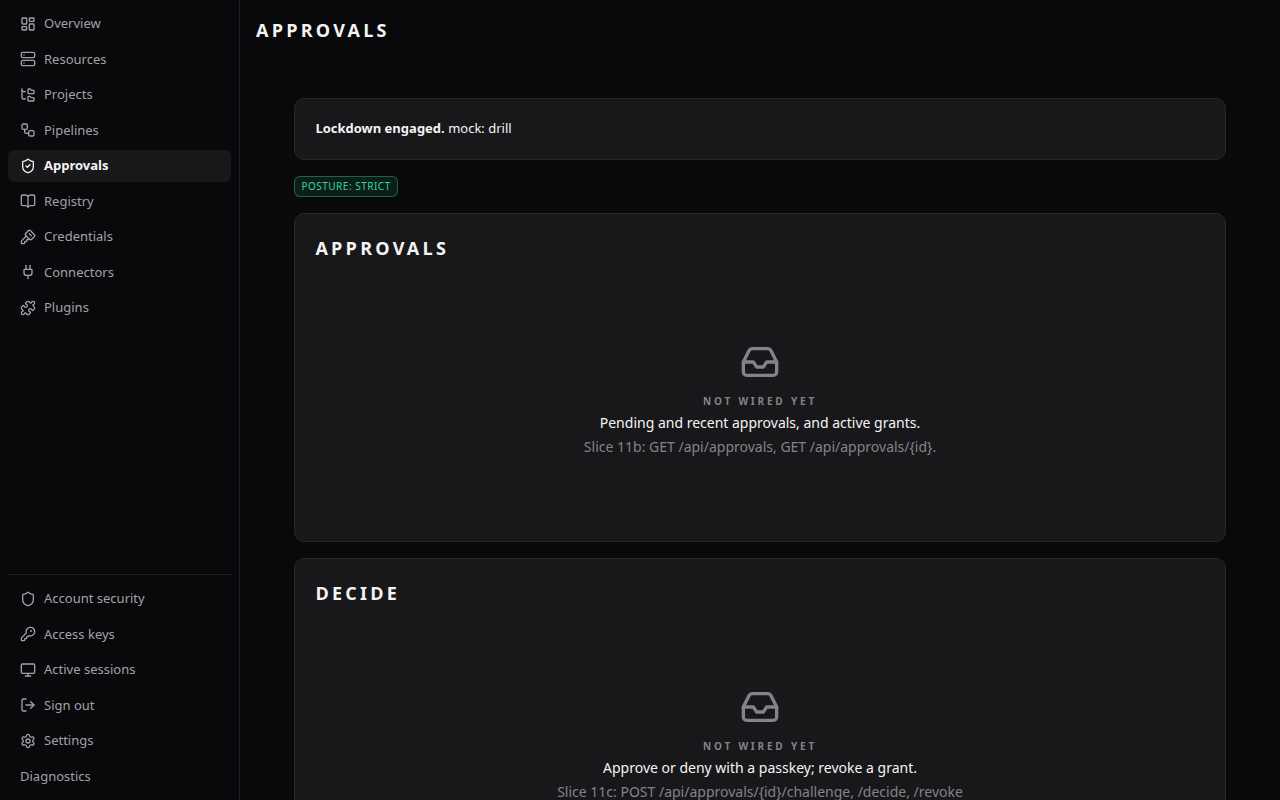
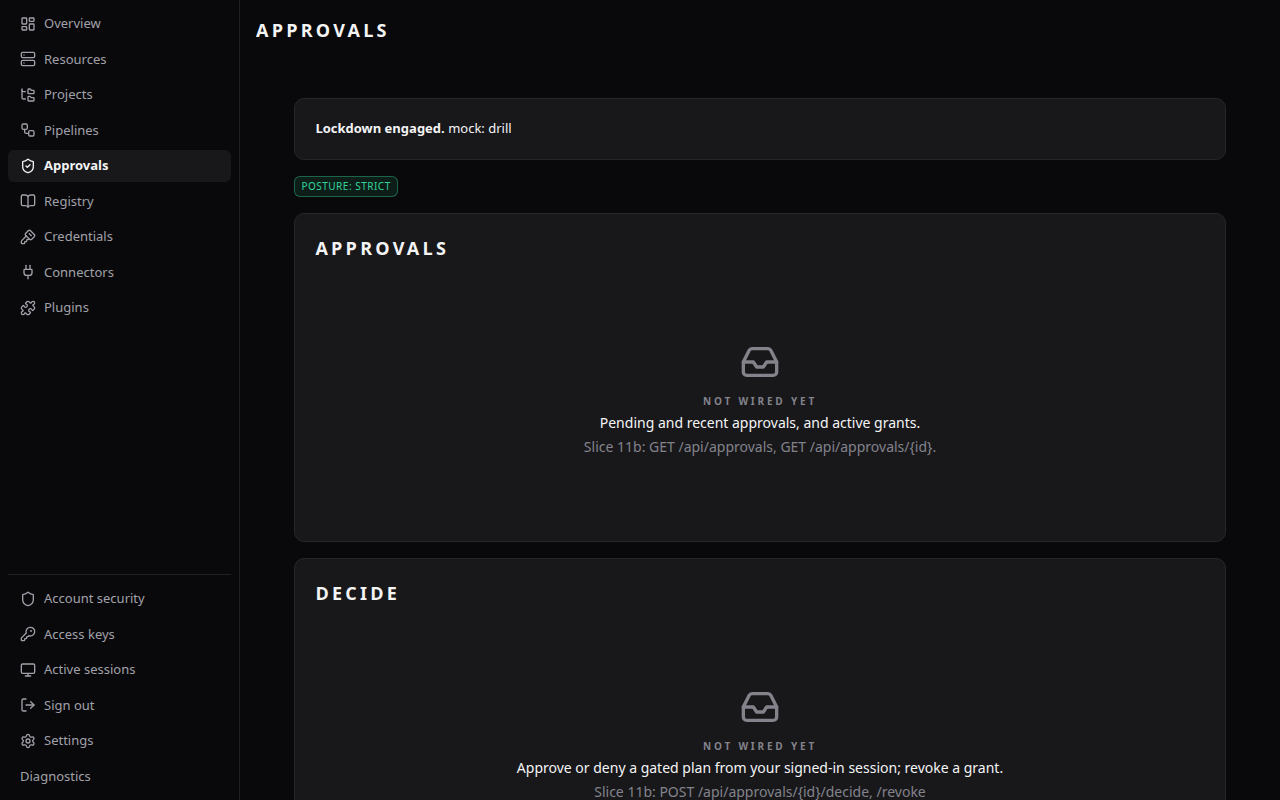
feat(web): approvals from the owner's console session, no passkeys (CW-20261114-0109)
Decision 0.1 (Chrispian): passkey approvals are dropped for the port. The
contract drops the passkey ceremony and enrolment routes, the RP ID and
allowed-origins handling, and the passkeys badge; the owner approves a
gated plan from the signed-in identity session. The approvals page and
the typed client follow, and the two approvals screenshots are retaken.

Changed region(s): [[0.4062, 0.9375, 0.7812, 1.0]]

diff --git a/web/src/api/cerberus.ts b/web/src/api/cerberus.ts
@@ -15,13 +15,10 @@ import type {
   ConsoleStatus,
   CredentialSaveResult,
   CredentialsResponse,
-  EnrollBegin,
   LogLines,
   ManagedPluginState,
   OpResult,
   OverviewInfo,
-  PasskeyCeremony,
-  PasskeyStatus,
   PipelineInfo,
   PipelineRunResult,
   PluginHealth,
@@ -36,8 +33,7 @@ import type {
 } from "./types"
 
 // Typed stubs for every route in docs/substrate-port/console-api-contract.md. The comment on each
-// group is the scope the route requires. Pages wire these in slice 11b; the passkey ceremonies
-// (approve, enroll, remove) in slice 11c.
+// group is the scope the route requires. Pages wire these in slice 11b.
 
 const id = encodeURIComponent
 
@@ -81,7 +77,6 @@ export const cerberus = {
   pluginHealth: (pid: string) => request<PluginHealth>(`plugins/connectors/${id(pid)}/health`),
   listApprovals: () => request<ApprovalListResponse>("approvals"),
   getApproval: (aid: string) => request<ApprovalInfo>(`approvals/${id(aid)}`),
-  passkeys: () => request<PasskeyStatus>("approvals/keys"),
 
   // cerberus.operate (resource remove: cerberus.admin)
   resourceAction: (rid: string, action: ResourceAction, acknowledged: boolean) =>
@@ -120,22 +115,10 @@ export const cerberus = {
   restoreConfigBackup: (backupPath: string) =>
     gated<ConfigRestoreResponse>("config/backups/restore", { backup_path: backupPath }),
 
-  // cerberus.approve (a console session only; never an API key or a local-trust caller)
-  approvalChallenge: (aid: string) =>
-    request<PasskeyCeremony>(`approvals/${id(aid)}/challenge`, "POST", {}),
-  decideApproval: (
-    aid: string,
-    body: { approve: boolean; typed: string; reason: string; assertion?: unknown },
-  ) => request<ApprovalInfo>(`approvals/${id(aid)}/decide`, "POST", body),
+  // cerberus.approve: the owner's console session only (decision 0.1: no passkey). Never an API
+  // key or a local-trust caller.
+  decideApproval: (aid: string, body: { approve: boolean; typed: string; reason: string }) =>
+    request<ApprovalInfo>(`approvals/${id(aid)}/decide`, "POST", body),
   revokeApproval: (aid: string, reason: string) =>
     request<ApprovalInfo>(`approvals/${id(aid)}/revoke`, "POST", { reason }),
-  // The enroll token comes from the host-side `cerberus approvals enroll` (host authentication).
-  enrollBegin: (enrollToken: string, label: string) =>
-    request<EnrollBegin>("approvals/keys/register/begin", "POST", { token: enrollToken, label }),
-  enrollFinish: (body: { ceremony: string; credential: unknown; authorize?: unknown }) =>
-    request<{ fingerprint: string }>("approvals/keys/register/finish", "POST", body),
-  removeKeyBegin: (fingerprint: string) =>
-    request<PasskeyCeremony>("approvals/keys/remove/begin", "POST", { fingerprint }),
-  removeKeyFinish: (body: { ceremony: string; credential: unknown }) =>
-    request<PasskeyStatus>("approvals/keys/remove/finish", "POST", body),
 }

diff --git a/web/src/pages/approvals.tsx b/web/src/pages/approvals.tsx
@@ -4,7 +4,8 @@ import { Page } from "./common"
 /**
  * The approvals page shell. An approval link (`/approvals?id=<approval>`) lands here after sign-in;
  * the old one-approval scoped session is gone (docs/substrate-port/console-api-contract.md).
- * The list arrives in slice 11b; deciding with a passkey and enrolling passkeys in slice 11c.
+ * The list and the decide and revoke actions arrive in slice 11b. Approving is the owner's signed-in
+ * console session (decision 0.1: no passkey).
  */
 export function ApprovalsPage() {
   const focus = new URLSearchParams(window.location.search).get("id") ?? ""
@@ -33,19 +34,8 @@ export function ApprovalsPage() {
         <EmptyState
           variant="empty"
           eyebrow="Not wired yet"
-          title="Approve or deny with a passkey; revoke a grant."
-          description="Slice 11c: POST /api/approvals/{id}/challenge, /decide, /revoke (cerberus.approve)."
-        />
-      </section>
-      <section className="panel stack" aria-labelledby="approvals-passkeys">
-        <h2 id="approvals-passkeys" className="text-lg font-semibold">
-          Passkeys
-        </h2>
-        <EmptyState
-          variant="empty"
-          eyebrow="Not wired yet"
-          title="Enrolled passkeys, enrolment and removal."
-          description="Slice 11c: GET /api/approvals/keys, POST /api/approvals/keys/{register|remove}/{begin|finish}."
+          title="Approve or deny a gated plan from your signed-in session; revoke a grant."
+          description="Slice 11b: POST /api/approvals/{id}/decide, /revoke (cerberus.approve, owner session only)."
         />
       </section>
     </Page>

diff --git a/web/src/api/types.ts b/web/src/api/types.ts
@@ -6,7 +6,6 @@
 // replaces the badge fields of the old GET /api/session, which also carried the action token.
 export interface ConsoleStatus {
   posture?: PostureInfo
-  passkeys?: PasskeysAlert | null
   break_glass?: BreakGlassAlert | null
   enforcement?: EnforcementAlert | null
   brakes?: BrakeState | null
@@ -48,41 +47,6 @@ export interface BreakGlassAlert {
   recent: number
   open: number
   summary: string
-}
-
-export interface PasskeysAlert {
-  summary: string
-  alert: boolean
-  state: string
-  keys: number
-}
-
-export interface PasskeyInfo {
-  fingerprint: string
-  label?: string
-  enrolled_at: string
-}
-
-export interface PasskeyStatus {
-  enrollment?: { method: string; available: boolean; next_step: string }
-  state: "not_set_up" | "ok" | "cooldown" | string
-  keys: PasskeyInfo[]
-  cooldown_until?: string
-  last_enrolled_at?: string
-  registry_hash: string
-}
-
-// PasskeyCeremony is one ceremony's id and the options the browser needs,
-// as base64url of their JSON (see webauthn.ts for why they travel opaque).
-export interface PasskeyCeremony {
-  ceremony: string
-  options: string
-}
-
-export interface EnrollBegin {
-  ceremony: string
-  creation: string
-  authorize?: string
 }
 
 // PostureInfo is the applied posture (section 13): shown in the header so a

diff --git a/web/src/pages/common.tsx b/web/src/pages/common.tsx
@@ -52,7 +52,6 @@ export function ConsoleHeader() {
             {status.posture.summary}
           </Pill>
         ) : null}
-        {status.passkeys?.alert ? <Pill tone="warning">{status.passkeys.summary}</Pill> : null}
         {status.break_glass?.open ? <Pill tone="danger">{status.break_glass.summary}</Pill> : null}
         {status.enforcement && !status.enforcement.enforced ? (
           <Pill tone="warning">{status.enforcement.summary}</Pill>

diff --git a/docs/substrate-port/console-api-contract.md b/docs/substrate-port/console-api-contract.md
@@ -16,7 +16,7 @@ Inputs:
 | Authentication | Substrate `identity`: an `HttpOnly`, `SameSite=Strict` session cookie set by `POST /api/login`. API keys (`Authorization: Bearer key_…`) for machine callers |
 | Writes | Every non-GET carries `Content-Type: application/json` and `X-Requested-With: XMLHttpRequest`, and a cookie-authenticated write must have a same-origin `Origin` (`identity.Middleware`). **Removed:** `X-Cerberus-Web-Token`, `X-Cerberus-Session-Key`, the `#cerberus-key` fragment |
 | Errors | The flat body `{"code": "…", "message": "…", "details": {…}?}` on every non-2xx. `401 unauthorized` when signed out. `403` when the scope is missing. `403 user_required` on person-only routes called with a key |
-| Gated-write refusal | Same flat body. `code` is `approval_required`, `approval_pending` or `plan_stale`, and `details.approval` is `{id, expires_at?, approve_with?, channel}`. `channel: "tty_confirm"` means the console can confirm in place (plan then confirm); `"out_of_band"` means a passkey approval |
+| Gated-write refusal | Same flat body. `code` is `approval_required`, `approval_pending` or `plan_stale`, and `details.approval` is `{id, expires_at?, approve_with?, channel}`. `channel: "tty_confirm"` means the console can confirm in place (plan then confirm); `"out_of_band"` means an approval the owner decides on the approvals page from the signed-in console session (no passkey, decision 0.1) |
 | Success bodies | Unchanged from today: the shapes in `web/src/api/types.ts` (carried from the old client). In-band `error` fields that some reads use for partial results stay. A request failure is never reported in a 200 |
 | Path ids | URL-encoded single segments |
 
@@ -29,10 +29,10 @@ A write that policy may gate has four forms on one base path. The base path is t
 | `POST <path>` | the write's body (`acknowledged` where the action has one) | the result, or a refusal naming an approval |
 | `POST <path>/plan` | the same body | `ConnectorPlan` `{plan_hash, computed_by, plan}` |
 | `POST <path>/confirm` | the body plus `{approval_id, confirmed_plan_hash}` | the result, or `409 plan_stale` |
-| `POST <path>` (retry) | the body plus `{approval_id}` after an out-of-band approval | the result |
+| `POST <path>` (retry) | the body plus `{approval_id}` after the owner approved it | the result |
 
 All four forms need the write's own scope. Confirming in place needs nothing more. An out-of-band
-approval is decided by someone holding `cerberus.approve` (section 3.4).
+approval is decided by the owner holding `cerberus.approve` in a console session (section 3.4).
 
 ## 2. Scopes
 
@@ -43,7 +43,7 @@ From the plan (section 4.3):
 | `cerberus.read` | every GET below | people, API keys, MCP stdio (local trust) |
 | `cerberus.operate` | resource actions except remove, pipeline runs, brakes | people, API keys, MCP stdio |
 | `cerberus.admin` | connector operations, credentials, plugins, registry writes, config restore, resource remove | people, API keys, MCP stdio |
-| `cerberus.approve` | deciding approvals, revoking grants, passkey enrolment and removal | **a person's console session only**. The server refuses it on any API key, any token minted from a key, and every local-trust principal (route returns `403 user_required` for non-persons; the plan's scope test asserts it) |
+| `cerberus.approve` | approving or denying a gated plan, revoking a grant | **the owner's console identity session only** (plan revision 4, decision 0.1). The server refuses it on any API key, any token minted from a key, and every local-trust principal (route returns `403 user_required` for non-persons; the plan's scope test asserts it) |
 | `authenticated` | `GET /api/identity/profile`, the identity self-service routes | any signed-in caller |
 | `public` | `/healthz`, `GET /api/setup`, `POST /api/login` | anyone |
 
@@ -69,7 +69,7 @@ The owner holds `*`. The access-keys page offers only read, operate and admin.
 
 | Method | Path | Scope | Response | Notes |
 |---|---|---|---|---|
-| GET | `/api/console/status` | `cerberus.read` | `ConsoleStatus` `{posture?, passkeys?, break_glass?, enforcement?, brakes?}` | **New.** The header badges and brakes banner, which today come once from `GET /api/session`. Polled every 15 s. `/api/session` is removed |
+| GET | `/api/console/status` | `cerberus.read` | `ConsoleStatus` `{posture?, break_glass?, enforcement?, brakes?}` | **New.** The header badges and brakes banner, which today come once from `GET /api/session`. Polled every 15 s. `/api/session` is removed |
 
 ### 3.3 Pages
 
@@ -103,48 +103,35 @@ The owner holds `*`. The access-keys page offers only read, operate and admin.
 | settings | POST **W** gated | `/api/config/backups/restore` | admin | `{backup_path}` | `ConfigRestoreResponse` |
 | approvals | GET | `/api/approvals` | read | | `ApprovalListResponse` |
 | approvals | GET | `/api/approvals/{id}` | read | | `ApprovalInfo` (an approval link's target) |
-| approvals | GET | `/api/approvals/keys` | read | | `PasskeyStatus` |
 | every page (header) | POST **W** | `/api/brakes/lockdown` | operate | `{reason}` | `{state: BrakeState}`. Never gated: engaging the brake is always one click |
-| header, approvals | POST **W** | `/api/brakes/lockdown/lift` | operate | `{approval_id}` | `{state: BrakeState}`. Refused until an out-of-band approval exists, then retried with it |
+| header, approvals | POST **W** | `/api/brakes/lockdown/lift` | operate | `{approval_id}` | `{state: BrakeState}`. Refused until the owner approves it, then retried with the approval id |
 | header, approvals | POST **W** | `/api/brakes/freeze/{id}/lift` | operate | `{approval_id}` | `{state: BrakeState}`, same as lockdown lift |
 | header | POST **W** | `/api/brakes/suspensions/{id}/reset` | operate | `{typed: "reset <id>"}` | `{state: BrakeState}` |
 
-### 3.4 Approve (passkey ceremonies, slice 11c)
+### 3.4 Approve (owner session)
 
-All of these are `cerberus.approve`, person-only (`403 user_required` otherwise), and need an
-`Origin` the passkey service allows (section 4).
+Decision 0.1 (Chrispian, 2026-11-14): passkey approvals are dropped for the port. Approval stays human and bound
+to the plan: the owner approves a gated plan from a signed-in identity session in the console, with no ceremony.
+Both routes are `cerberus.approve`, person-only (`403 user_required` for a key, a token minted from one, or a
+local-trust principal).
 
 | Method | Path | Request | Response |
 |---|---|---|---|
-| POST **W** | `/api/approvals/{id}/challenge` | `{}` | `PasskeyCeremony` `{ceremony, options}` |
-| POST **W** | `/api/approvals/{id}/decide` | `{approve, typed, reason, assertion?: {ceremony, credential}}`. An out-of-band approve must carry the assertion; approve needs the typed target | `ApprovalInfo` |
+| POST **W** | `/api/approvals/{id}/decide` | `{approve, typed, reason}`. Approve needs the typed target, which must match the plan's | `ApprovalInfo` |
 | POST **W** | `/api/approvals/{id}/revoke` | `{reason}` | `ApprovalInfo` |
-| POST **W** | `/api/approvals/keys/register/begin` | `{token, label}`. `token` is the enrolment token from the host-side `cerberus approvals enroll` (polkit or Touch ID) | `EnrollBegin` `{ceremony, creation, authorize?}` |
-| POST **W** | `/api/approvals/keys/register/finish` | `{ceremony, credential, authorize?}` | `{fingerprint}` |
-| POST **W** | `/api/approvals/keys/remove/begin` | `{fingerprint}` | `PasskeyCeremony` |
-| POST **W** | `/api/approvals/keys/remove/finish` | `{ceremony, credential}` | `PasskeyStatus` |
 
-## 4. Passkeys and approval links
+Not carried: `/api/approvals/{id}/challenge` and `/api/approvals/keys[/register|remove/begin|finish]`. The passkey
+registry under `~/.cerberus/approvals/passkeys/` is kept in place, not migrated, and unused (plan section 5).
 
-- **The RP ID is the console's host name** (`internal/presence/presence.go:307-319`): `localhost` for the
-  local console, the public host for a console reached through `web.public_url`. A passkey works only on
-  the RP ID it was enrolled under, and the live console is used through `web.public_url`, so enrolled keys
-  may be bound to the public host rather than `localhost`.
-- **Allowed origins are an explicit list** (key `cerberus.passkeys.allowed_origins`), no longer derived
-  from `~/.cerberus/web/login-*.key`. The migration seeds it from the old `web.public_url` value plus
-  `http://localhost:4786`, and the RP ID of each ceremony is taken
-  from the origin it arrives on, as today.
-- **Rehearsal step:** on the copy, read each key's enrolment origin and RP ID from `keys.json`. In the
-  stored go-webauthn credential, `attestation.clientDataJSON` names the origin and
-  `attestation.authenticatorData` starts with the RP ID hash. Confirm every key matches an origin in the list. A key bound to a host the new console
-  will not serve is named before cutover and re-enrolled, never discovered after it.
-- `keys.json` and `key-counters.json` move byte for byte with the audit chain (plan section 5),
-  otherwise the 24-hour cooldown starts.
+## 4. Approval links and the console host
+
 - **Approval links:** today an approval link signs a browser into a session limited to one approval
   (no nav, no brakes). Substrate identity has no scoped session. The new link is the deep link
   `/approvals?id=<approval>`. It shows the identity sign-in if needed, then the approvals page with
-  that approval in front. Deciding still needs `cerberus.approve` and the passkey, so the safety
-  property (a human with the passkey) holds. What is lost is the link working without a full sign-in.
+  that approval in front. Deciding needs `cerberus.approve`, which only the owner's console session holds.
+  What is lost is the link working without a full sign-in.
+- **Public host name:** kept. The reverse proxy points at `127.0.0.1:4786`, and the override lists the public
+  name in the allowed hosts with `identity.trusted_proxy: true` (plan section 1). Cookies are `Secure` behind it.
 
 ## 5. Changes from today's console API
 
@@ -155,6 +142,7 @@ All of these are `cerberus.approve`, person-only (`403 user_required` otherwise)
 | `GET /api/session` (token, scope, badges) | `GET /api/console/status` (badges only). Who-am-I is `GET /api/identity/profile` | token and scoped sessions gone |
 | `{success:false, error, message, code?, approval?}` | `{code, message, details?}`, with `details.approval` | flat errors |
 | Scoped approval session (`scopedRouteAllowed`) | deep link plus full sign-in | identity has no scoped sessions |
+| Out-of-band approval with a WebAuthn passkey (challenge, assertion), passkey enrolment and removal | the owner approves from the console session; passkey routes removed | decision 0.1 |
 | Plugin load and unload were plain posts | gated like every other admin write | consistency. The server may never gate them, and then only the base form is used |
 | `GET /login?token=` | removed. `cerberus web open` is retired; the owner signs in with a password | Substrate identity |
 | Unused by the console and left to their own slices: `/api/brakes` GET, `/api/resources/{id}/{inspect,doctor}`, `/api/health`, `/api/portfolio/health`, `/api/plugins/connectors/{id}/operations/{op}`, `/api/schedules/v1/*`, `/api/hosts*`, `/api/components*` | not part of this contract | service and bearer clients (plan slices 7 to 9) |
@@ -163,13 +151,10 @@ All of these are `cerberus.approve`, person-only (`403 user_required` otherwise)
 ## 6. Decisions and open points
 
 Ratified (cell lead, 2026-11-14): sign-in through kit-identity; approval links as a deep link plus full
-sign-in; `GET /api/console/status` replacing `/api/session`; plugin load and unload as gated writes; the
-config key `cerberus.passkeys.allowed_origins`.
+sign-in; `GET /api/console/status` replacing `/api/session`; plugin load and unload as gated writes.
 
-**Open: whether passkey approvals stay at all.** This is a decision for the owner (through the program
-director). Until it is made, the approvals page stays a shell and the ceremony routes in section 3.4 are
-not built on the console side (slice 11c waits). If approvals are dropped, section 3.4 and the
-`cerberus.approve` scope go with them, and section 4 reduces to approval links.
+Decided by the owner (decision 0.1, 2026-11-14): passkey approvals are dropped; the owner approves from the
+console session. There is no slice 11c. A per-app passkey or Substrate strict-mode path is a later follow-up.
 
 Notes:
 
